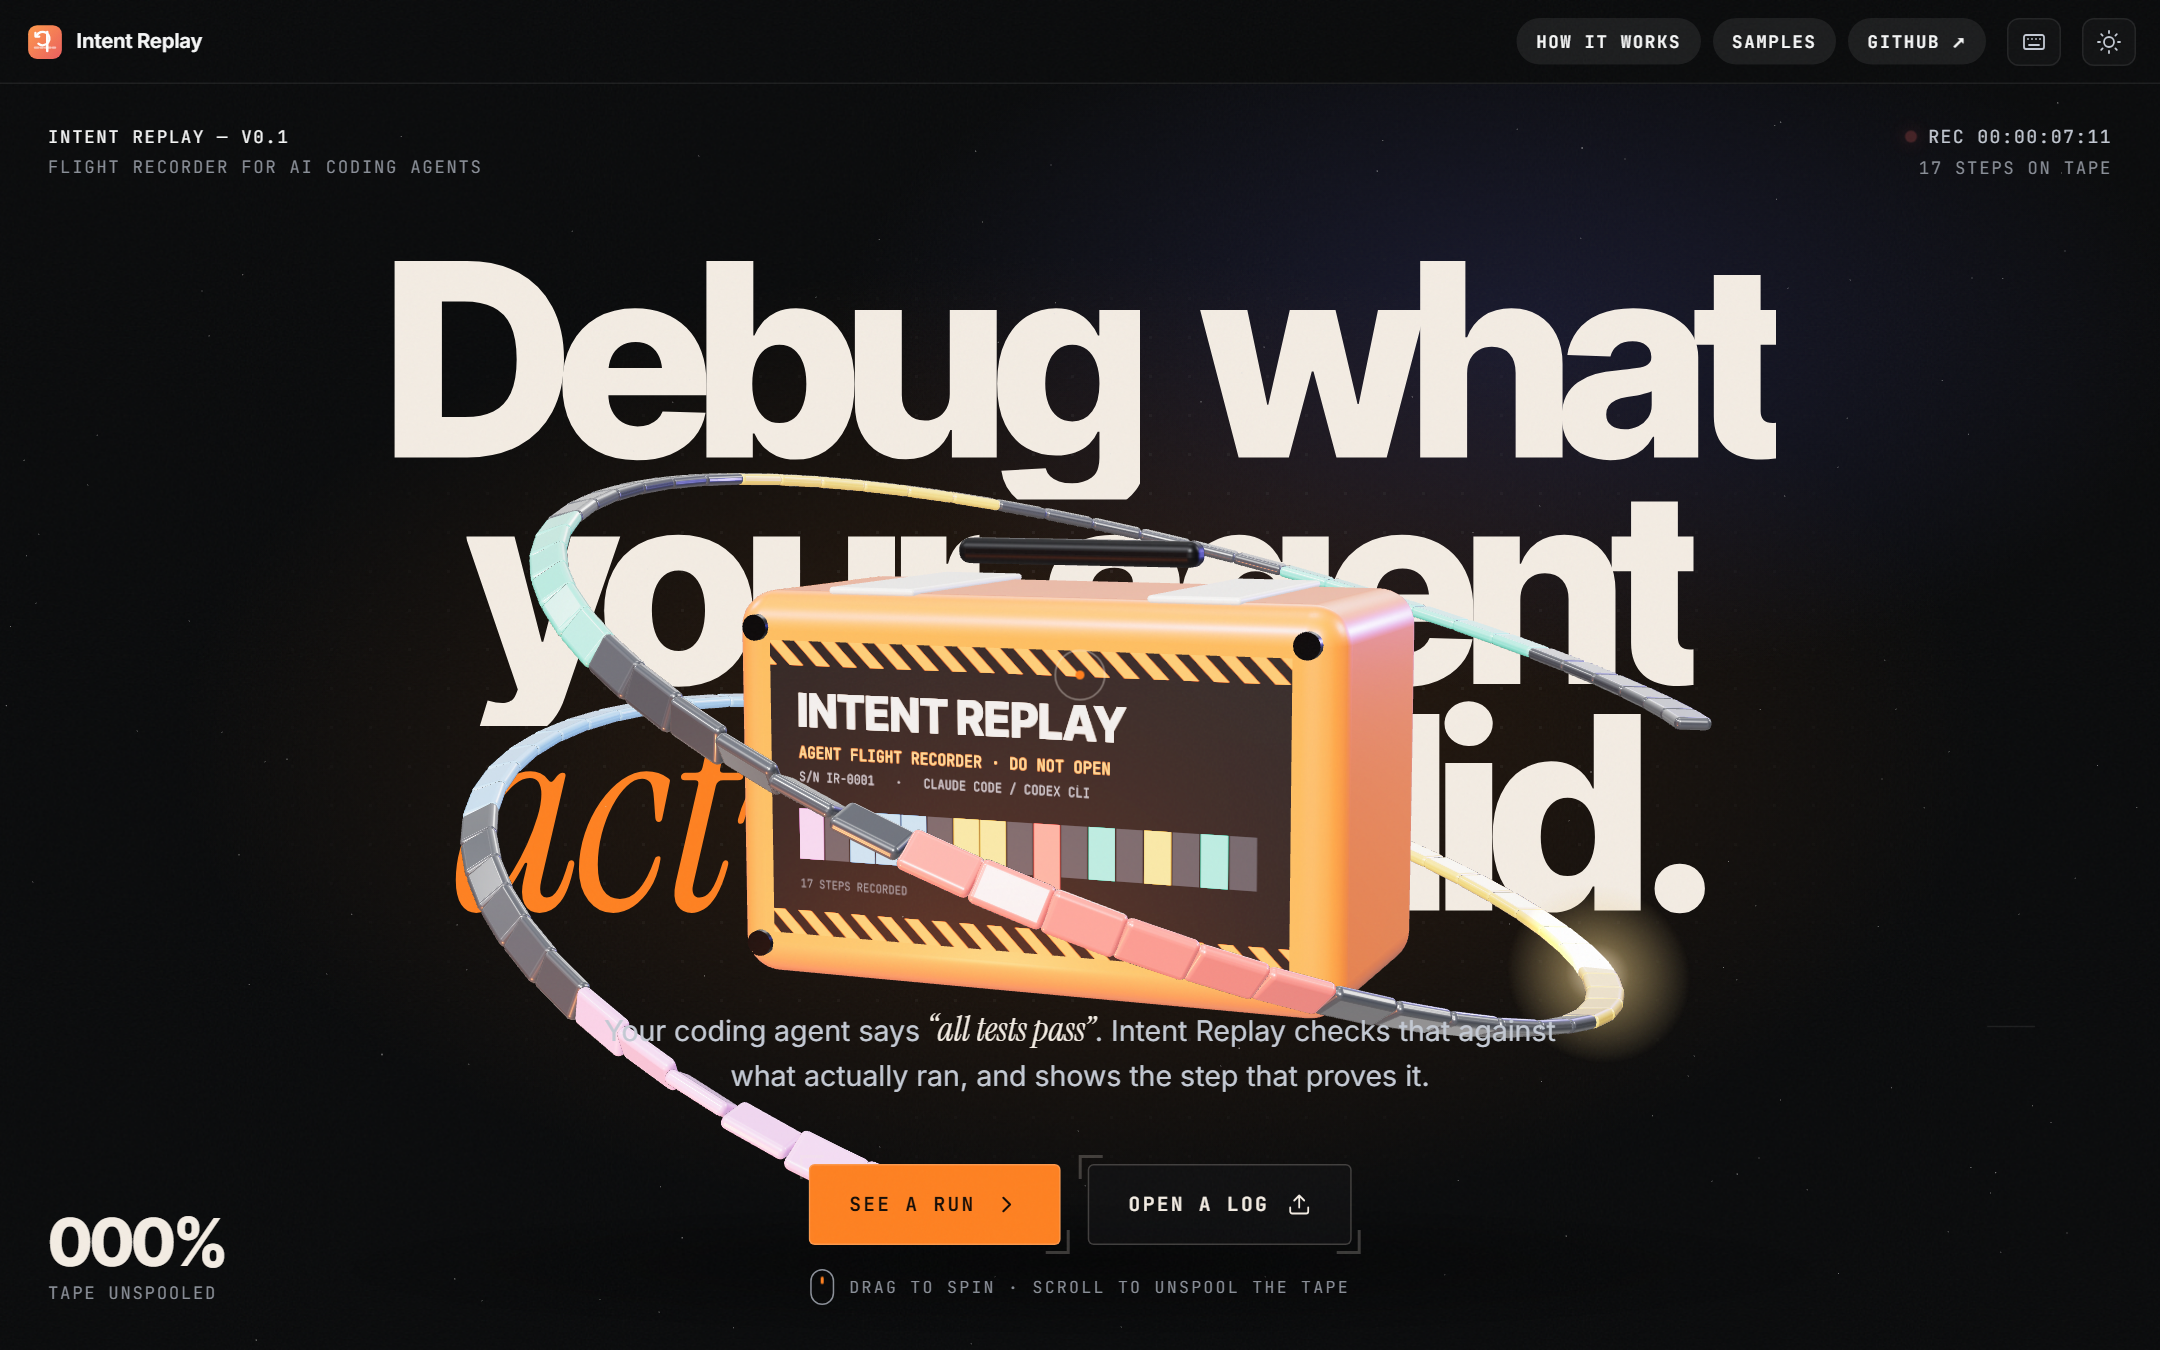
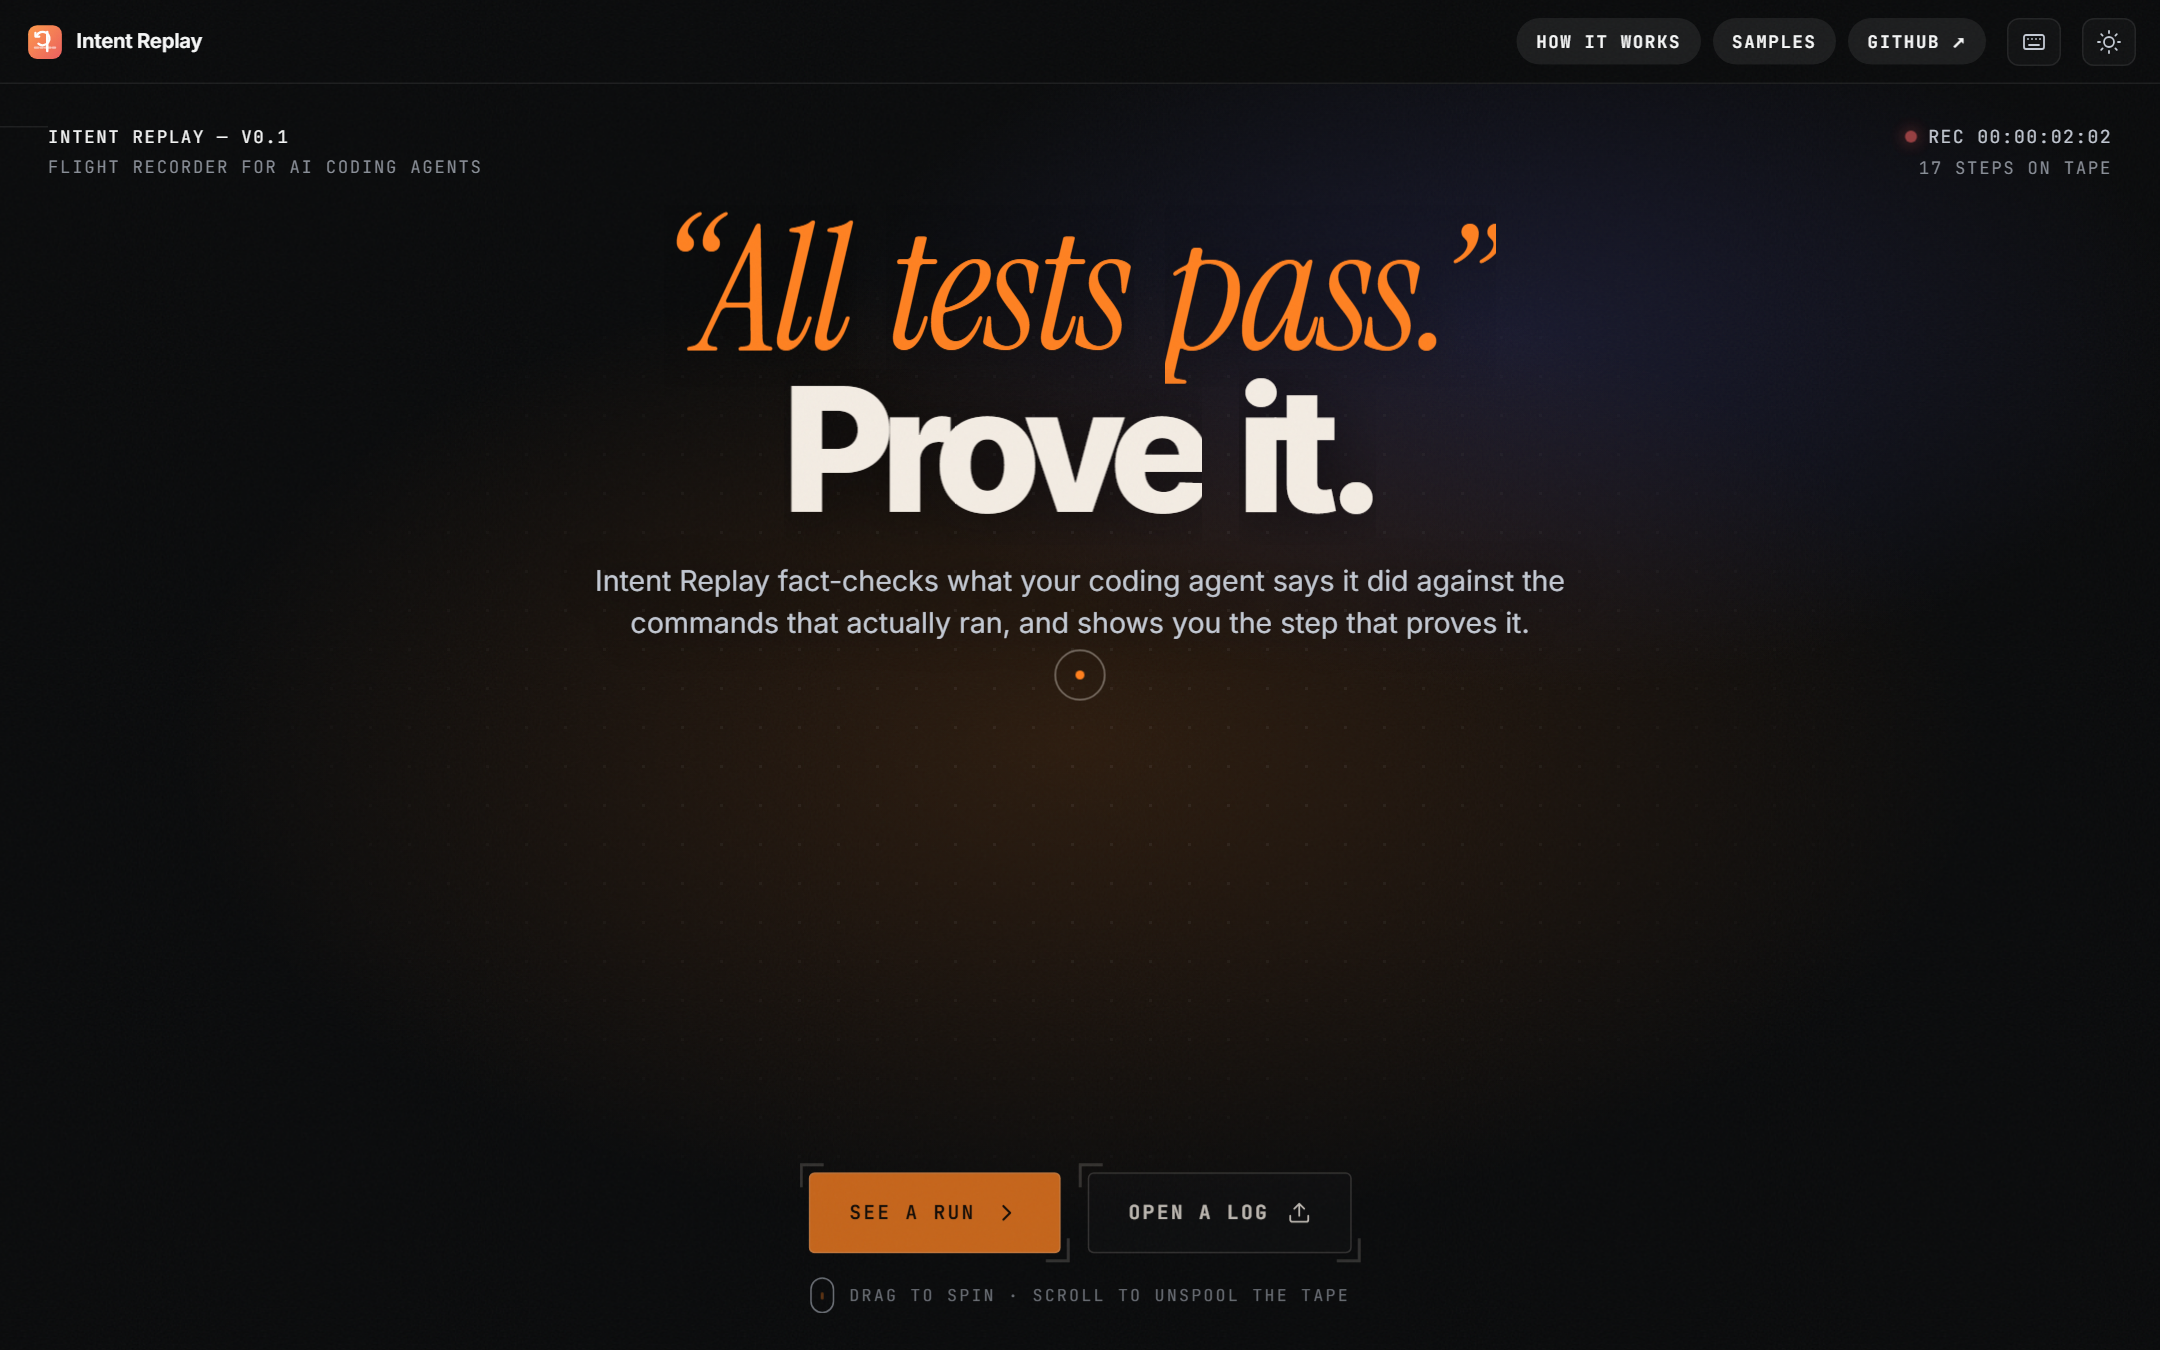
Hero leads with the claim check: headline and pitch sit above the 3D canvas, the recorder starts small and low under them and moves to centre as you scroll; unspool counter appears only once scrolling

Changed region(s): [[0.1551, 0.1556, 0.8375, 0.9644], [0.0, 0.9022, 0.1241, 0.9644], [0.5273, 0.8711, 0.5894, 0.9022]]

diff --git a/src/ui/home/CineHero.tsx b/src/ui/home/CineHero.tsx
@@ -64,7 +64,7 @@ export function CineHero({ trace, analysis, ready, onOpen, onPick }: { trace: Tr
         if (!r) stage.current.classList.add('no-webgl');
         dispose = r?.dispose;
       });
-    }, 150);
+    }, 1300);
     return () => {
       cancelled = true;
       window.clearTimeout(timer);
@@ -105,7 +105,6 @@ export function CineHero({ trace, analysis, ready, onOpen, onPick }: { trace: Tr
     return () => st.kill();
   }, []);
 
-  const words = ['Debug', 'what', 'your', 'agent', 'actually', 'did.'];
   const titleOut = Math.min(1, p / 0.22);
   const midIn = p > 0.3 && p < 0.58;
   const pct = Math.round(Math.min(1, p / 0.62) * 100);
@@ -114,37 +113,27 @@ export function CineHero({ trace, analysis, ready, onOpen, onPick }: { trace: Tr
     <section className="ch" ref={section} aria-label="Intent Replay">
       <div className="ch-sticky">
         <div className="ch-bg" aria-hidden="true" />
-        <h1
-          className="ch-title"
-          ref={title}
-          style={{ opacity: 1 - titleOut, transform: `scale(${1 + titleOut * 0.35})`, filter: `blur(${titleOut * 8}px)` }}
-        >
-          <span className="ch-line">
-            {words.slice(0, 2).map((w) => (
-              <span key={w} className="ch-mask">
-                <span className="ch-word">{w}</span>
-              </span>
-            ))}
-          </span>
-          <span className="ch-line">
-            {words.slice(2, 4).map((w) => (
-              <span key={w} className="ch-mask">
-                <span className="ch-word">{w}</span>
-              </span>
-            ))}
-          </span>
-          <span className="ch-line">
-            <span className="ch-mask">
-              <em className="ch-word">actually</em>
+        <div className="ch-copy" style={{ opacity: 1 - titleOut, transform: `translateY(${-titleOut * 60}px) scale(${1 + titleOut * 0.12})`, filter: `blur(${titleOut * 8}px)` }}>
+          <h1 className="ch-title" ref={title}>
+            <span className="ch-line quote">
+              {['“All', 'tests', 'pass.”'].map((w) => (
+                <span key={w} className="ch-mask">
+                  <em className="ch-word">{w}</em>
+                </span>
+              ))}
             </span>
-            <span className="ch-mask">
-              <span className="ch-word">did.</span>
+            <span className="ch-line">
+              {['Prove', 'it.'].map((w) => (
+                <span key={w} className="ch-mask">
+                  <span className="ch-word">{w}</span>
+                </span>
+              ))}
             </span>
-          </span>
-        </h1>
-        <p className="ch-sub ch-reveal" style={{ opacity: 1 - titleOut }}>
-          Your coding agent says <q>all tests pass</q>. Intent Replay checks that against what actually ran, and shows the step that proves it.
-        </p>
+          </h1>
+          <p className="ch-sub ch-reveal">
+            Intent Replay fact-checks what your coding agent says it did against the commands that actually ran, and shows you the step that proves it.
+          </p>
+        </div>
 
         <div className="ch-stage" ref={stage} aria-hidden="true" />
 
@@ -178,7 +167,7 @@ export function CineHero({ trace, analysis, ready, onOpen, onPick }: { trace: Tr
           <RecTimecode />
           <span>{trace.steps.length} steps on tape</span>
         </div>
-        <div className="ch-hud bl ch-reveal">
+        <div className={`ch-hud bl ${p > 0.02 ? 'on' : ''}`}>
           <span className="ch-pct">{String(pct).padStart(3, '0')}%</span>
           <span>tape unspooled</span>
         </div>

diff --git a/src/ui/home/cine.css b/src/ui/home/cine.css
@@ -176,25 +176,6 @@
   mask-image: radial-gradient(ellipse 60% 60% at 50% 50%, #000 20%, transparent 75%);
 }
 
-.ch-title {
-  position: absolute;
-  inset: 0;
-  margin: 0;
-  display: grid;
-  align-content: center;
-  justify-items: center;
-  text-align: center;
-  font-family: var(--font-display);
-  font-size: clamp(64px, 12.5vw, 220px);
-  line-height: 0.84;
-  letter-spacing: -0.06em;
-  font-weight: 800;
-  color: var(--cream);
-  pointer-events: none;
-  will-change: transform, opacity;
-  z-index: 1;
-}
-
 .ch-line {
   display: flex;
   gap: 0.22em;
@@ -209,15 +190,6 @@
 
 .ch-word {
   display: inline-block;
-}
-
-.ch-title em {
-  font-family: var(--font-serif);
-  font-style: italic;
-  font-weight: 400;
-  letter-spacing: -0.02em;
-  color: var(--signal);
-  padding-right: 0.05em;
 }
 
 .ch-stage {
@@ -552,39 +524,78 @@
   transition: opacity 0.4s, transform 0.4s;
 }
 
-/* The one-line pitch under the title: the claim check first. */
+/* Headline and pitch: top of the first screen, above the 3D canvas, which sits lower. */
+.ch-copy {
+  position: absolute;
+  left: 0;
+  right: 0;
+  top: clamp(36px, 9vh, 96px);
+  z-index: 3;
+  display: grid;
+  justify-items: center;
+  gap: 22px;
+  padding: 0 20px;
+  text-align: center;
+  pointer-events: none;
+  will-change: transform, opacity;
+}
+
 .ch-title {
-  padding-bottom: 170px;
+  margin: 0;
+  display: grid;
+  justify-items: center;
+  font-family: var(--font-display);
+  font-size: clamp(52px, 8vw, 128px);
+  line-height: 0.92;
+  letter-spacing: -0.055em;
+  font-weight: 800;
+  color: var(--cream);
+  text-shadow: 0 2px 40px rgba(8, 9, 10, 0.6);
+}
+
+.ch-line.quote {
+  gap: 0.18em;
+}
+
+.ch-line.quote em {
+  font-family: var(--font-serif);
+  font-style: italic;
+  font-weight: 400;
+  letter-spacing: -0.02em;
+  color: var(--signal);
+  padding-right: 0.04em;
 }
 
 .ch-sub {
-  position: absolute;
-  left: 50%;
-  bottom: 168px;
-  z-index: 3;
-  width: min(640px, calc(100% - 40px));
+  max-width: 700px;
   margin: 0;
-  transform: translateX(-50%);
-  text-align: center;
   font-size: clamp(16px, 1.35vw, 19px);
   line-height: 1.5;
   color: var(--text-2);
-  pointer-events: none;
+  text-shadow: 0 1px 24px rgba(8, 9, 10, 0.9);
 }
 
-.ch-sub q {
-  font-family: var(--font-serif);
-  font-style: italic;
-  font-size: 1.2em;
-  color: var(--cream);
+/* The unspool counter only means something once you scroll. */
+.ch-hud.bl {
+  opacity: 0;
+  transition: opacity 0.4s;
+}
+
+.ch-hud.bl.on {
+  opacity: 1;
 }
 
 @media (max-width: 800px) {
-  .ch-title {
-    padding-bottom: 210px;
+  .ch-hud.tl {
+    display: none;
   }
 
-  .ch-sub {
-    bottom: 150px;
+  .ch-copy {
+    top: 28px;
+    gap: 16px;
+  }
+
+  .ch-title {
+    font-size: clamp(44px, 13vw, 72px);
   }
 }

diff --git a/src/ui/fx3d/cine.ts b/src/ui/fx3d/cine.ts
@@ -338,6 +338,12 @@ export function startCine(host: HTMLElement, steps: TapeStep[], state: CineState
     const settle = smooth(0.2, 0.7, p);
     rig.rotation.y = lerp(yaw, Math.round(yaw / (Math.PI * 2)) * Math.PI * 2, settle);
     rig.rotation.x = lerp(pitch, 0.05, settle);
+    // First screen: the recorder sits small and low, under the headline, never on it.
+    // Scrolling brings it to the centre at full size for the timeline.
+    const halfH = Math.tan((camera.fov * Math.PI) / 360) * camera.position.z;
+    const below = 1 - smooth(0.02, 0.3, p);
+    rig.position.y = lerp(0, -halfH * (W / H < 1 ? 0.16 : 0.31), below);
+    rig.scale.setScalar(lerp(1, 0.48, below));
 
     // box: drops in, then rises and shrinks to make room for the timeline
     const drop = 1 - Math.pow(1 - intro, 3);

diff --git a/tests/e2e/journey.spec.ts b/tests/e2e/journey.spec.ts
@@ -9,7 +9,7 @@ test('core journey: brief → contradicted claim → evidence → blame → why'
   const errors: string[] = [];
   page.on('pageerror', (e) => errors.push(e.message));
   await page.goto(app);
-  await expect(page.getByRole('heading', { name: /actually/ })).toBeVisible();
+  await expect(page.getByRole('heading', { name: /Prove it/ })).toBeVisible();
 
   await page.getByRole('button', { name: /See a run/ }).click();
   await expect(page.getByRole('heading', { name: 'The agent said it was done. The log disagrees.' })).toBeVisible();
